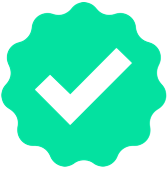
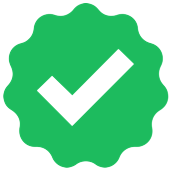
Final tweaks

diff --git a/templates/drip-restore.html b/templates/drip-restore.html
@@ -13,31 +13,29 @@
 
       @@include('subheadline.html', {"title": "Security"})
 
-      <p>All backed up files are encrypted and transformed into signed data-blocks. Each data-block is then split into tiny encrypted chunks which are separately stored. Less than 1% of a file is stored at the same place. On top of having the data encrypted all server communication is encrypted as well for maximum security.</p>
+      <p>All backed up files are secured using 128-bit AES encryption and transformed into signed data-blocks. Each data-block is then split into tiny encrypted chunks which are separately stored. On top of having the data encrypted all server communication is encrypted as well for maximum security.</p>
 
       <p>With other words, your files are safe! If you are interested you can read more about our <a href="@@helpsecurity" target="_blank">security</a>.</p>
 
       @@include('subheadline.html', {"title": "Reliability"})
 
-      <p>Reliability of accessing your data is key and we have solved this for you by duplicating, combining and splitting your files into tiny encrypted chunks across the globe in a very clever way.</p>
+      <p>Reliability of accessing your data is key and we have solved this for you by duplicating, combining and splitting your files into tiny encrypted chunks multiplied and stored globally. Here are more details about how <a href="@@helpsecurity" target="_blank">reliability</a> works.</p>
 
-      <p>Even if part of your file is lost, our system will self-heal your backup to ensure maxium reliabilty. Here are more details about how <a href="@@helpsecurity" target="_blank">reliability</a> works.</p>
+      @@include('subheadline.html', {"title": "How to recover your files"})
 
-      @@include('subheadline.html', {"title": "How to restore your files"})
-
-      <p>If something happens and you need to restore part or your full backup, follow these simple steps.</p>
+      <p>If something happens and you need to recover part or your full backup, follow these simple steps.</p>
 
       <ol>
         <li>Open Degoo, click the Recovery tab and then the button "Start new recovery..."</li>
-        <li>Select the file or folder your want to restore by navigating the folder tree.</li>
+        <li>Select the file or folder your want to recover by navigating the folder tree.</li>
         <li>Click the "Start recovery" button. That's it!</li>
       </ol>
 
-      <p>Note that if you have deleted files you want to restore, they are located in a special folder called "Deleted files" for 14 days before they are removed from your backup.</p>
+      <p>Note that if you have deleted files you want to recover, they are located in a special folder called "Deleted files" for 10 days before they are removed from your backup.</p>
 
-      <p>Depending on the size of your backup and your internet bandwidth the time to restore files may take a while.</p>
+      <p>Depending on the size of your backup and your internet bandwidth the time to recover files may take a while.</p>
 
-      <p>For further details about restoring your backup, follow this <a href="@@helprestore" target="_blank">guide</a>.</p>
+      <p>For further details about restoring your backup, follow this <a href="@@helprecover" target="_blank">guide</a>.</p>
     </td>
   </tr>
 

diff --git a/templates/partials/header.html b/templates/partials/header.html
@@ -43,7 +43,7 @@
     }
 
     .highlight {
-      color: #23E0A1;
+      color: #4cc67a;
       font-weight: bold;
     }
 
@@ -57,7 +57,7 @@
 
     .btn {
       color: #FFFFFF;
-      background-color: #1BB5EC;
+      background-color: #1dbb5e;
       padding: 14px 20px;
       display: inline-block;
       -webkit-border-radius: 26px;
@@ -73,7 +73,7 @@
 
     a,
     a:visited {
-      color: #1BB5EC;
+      color: #1F86C7;
       font-weight: bold;
     }
 
@@ -128,9 +128,9 @@
     @media (min-resolution: 192dpi), (-webkit-min-device-pixel-ratio: 2), (min--moz-device-pixel-ratio: 2), (-o-min-device-pixel-ratio: 2/1), (min-device-pixel-ratio: 2), (min-resolution: 2dppx) {
         .love {
             background-image: url(gfx/love@2x.png) !important;
-            background-size: 36px 32px;
-            width: 36px !important;
-            height: 32px !important;
+            background-size: 38px 35px;
+            width: 38px !important;
+            height: 35px !important;
         }
         .love img {
             display: none;
@@ -148,9 +148,9 @@
 
         .check {
             background-image: url(gfx/check@2x.png) !important;
-            background-size: 50px 50px;
-            width: 50px !important;
-            height: 50px !important;
+            background-size: 52px 52px;
+            width: 52px !important;
+            height: 52px !important;
         }
         .check img {
             display: none;
@@ -168,9 +168,9 @@
 
         .bigcheck {
             background-image: url(gfx/bigcheck@2x.png) !important;
-            background-size: 168px 170px;
-            width: 168px !important;
-            height: 170px !important;
+            background-size: 171px 171px;
+            width: 171px !important;
+            height: 171px !important;
         }
         .bigcheck img {
             display: none;

diff --git a/templates/drip-premium.html b/templates/drip-premium.html
@@ -7,13 +7,13 @@
   <!-- big top -->
   <tr>
     <td bgcolor="#FFFFFF" width="600" align="left">
-      @@include('headline.html', {"title": "Get 1000 GB backup space"})
+      @@include('headline.html', {"title": "Get 2000 GB backup space"})
 
       <p>By upgrading to Degoo Premium your files will stay safe after the trial period and you'll receive the following great benefits.</p>
 
       <ol class="list">
         <li>
-          <b>1000 GB backup space.</b><br>
+          <b>2000 GB backup space.</b><br>
           <p>Plenty of space for everything you have.</p>
         </li>
         <li>
@@ -32,7 +32,7 @@
 
       <p>Make you files safe and secure for ever, get Degoo Premium now!</p>
 
-      @@include('button.html', {"title": "Save 60% on Premium now", "url": "@@upgrade", "utm_campaign": "premium"})
+      @@include('button.html', {"title": "Save up to 60% now", "url": "@@upgrade", "utm_campaign": "premium"})
     </td>
   </tr>
 

diff --git a/templates/partials/footer.html b/templates/partials/footer.html
@@ -1,11 +1,11 @@
 <!-- footer -->
 <table width="600" cellpadding="30" cellspacing="0" border="0" align="center" class="footer">
   <tr>
-    <td bgcolor="#1BB5EC" width="600" align="center" class="inverted">
+    <td bgcolor="#1F86C7" width="600" align="center" class="inverted">
       <p>Thanks again for staying safe with Degoo. Got questions? Get in <a href="@@support">touch here</a>. I'll be happy to help.</p>
 
       <div class="love">
-        <img src="gfx/love.png" width="36" height="32" alt="With love from Degoo">
+        <img src="gfx/love.png" width="38" height="35" alt="With love from Degoo">
       </div>
 
       <p>Carl, CEO at Degoo</p>

diff --git a/templates/drip-what_to_backup.html b/templates/drip-what_to_backup.html
@@ -22,7 +22,7 @@
         </li>
         <li>
           <b>Backup your files - all the time.</b>
-          <p>You probably use your computer every day, creating or changing files. Ensure the Degoo client is starting automatically when you start your computer. Connect to the internet at least once a day to allow Degoo to backup your latest changes.</p>
+          <p>You probably use your computer every day, creating or changing files. The Degoo client starts automatically when you start your computer. Connect to the internet at least once a day to allow Degoo to backup your latest changes.</p>
         </li>
         <li>
           <b>Be prepared.</b>

diff --git a/templates/welcome.html b/templates/welcome.html
@@ -7,13 +7,13 @@
   <!-- big top -->
   <tr>
     <td bgcolor="#FFFFFF" width="600" align="left" class="mainmsg">
+      <!--
       @@include('img-top.html', {"img": "topimg1.png", "alt": "It's Wonderful", "class": "topimg1", "width": "301", "height": "302"})
+      -->
 
       @@include('headline.html', {"title": "Congratulations and welcome!"})
 
       <p>As the newest user of Degoo you will enjoy having your files safely backed up. Over the next few days you will get introduce to more features of Degoo.</p>
-
-      @@include('quota-text.html')
     </td>
   </tr>
 

diff --git a/templates/drip-extra_space.html b/templates/drip-extra_space.html
@@ -17,7 +17,7 @@
 
       @@include('subheadline.html', {"title": "Upgrade account"})
 
-      <p>Get 1000 GB backup space immediately by upgrading to premium. Read more about the other benefits with a premium account.</p>
+      <p>Get 2000 GB backup space immediately by upgrading to premium. Read more about the other benefits with a premium account.</p>
 
       @@include('button.html', {"title": "Get premium now", "url": "@@upgrade"})
     </td>

diff --git a/templates/reoccurring-weekly.html b/templates/reoccurring-weekly.html
@@ -7,7 +7,7 @@
   <!-- big top -->
   <tr>
     <td bgcolor="#FFFFFF" width="600" align="left" class="mainmsg">
-      @@include('img-top.html', {"img": "bigcheck.png", "alt": "Great Success", "class": "bigcheck", "width": "168", "height": "170"})
+      @@include('img-top.html', {"img": "bigcheck.png", "alt": "Great Success", "class": "bigcheck", "width": "171", "height": "171"})
 
       @@include('headline.html', {"title": "Great Success"})
 

diff --git a/templates/drip-send_files.html b/templates/drip-send_files.html
@@ -7,7 +7,7 @@
   <!-- big top -->
   <tr>
     <td bgcolor="#FFFFFF" width="600" align="left">
-      @@include('headline.html', {"title": "Send large files to anyone"})
+      @@include('headline.html', {"title": "Send large files to anyone for free"})
 
       <p>As a Degoo user you can send very large files to anyone - they don't even need to have a Degoo account!</p>
 

diff --git a/templates/partials/top-large.html b/templates/partials/top-large.html
@@ -1,7 +1,7 @@
 <!-- header -->
 <table width="600" cellpadding="30" cellspacing="0" border="0" align="center">
   <tr>
-    <td bgcolor="#1BB5EC" width="100%" align="center" class="inverted">
+    <td bgcolor="#1F86C7" width="100%" align="center" class="inverted">
       <p>Degoo is your secure cloud backup service for OSX and Windows.</p>
     </td>
   </tr>

diff --git a/templates/partials/img-check.html b/templates/partials/img-check.html
@@ -2,7 +2,7 @@
         <tr>
           <td bgcolor="#FFFFFF" align="center">
             <div class="check">
-              <img src="gfx/check.png" width="50" height="50" alt="Check mark">
+              <img src="gfx/check.png" width="52" height="52" alt="Check mark">
             </div>
           </td>
         </tr>
